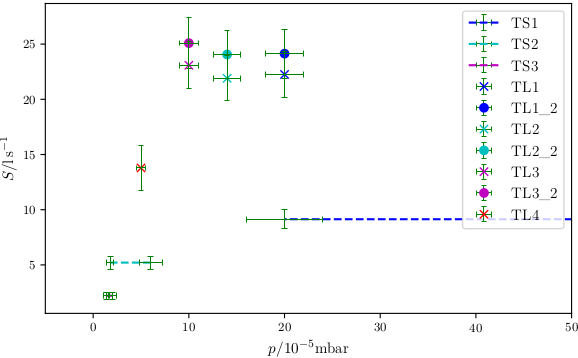
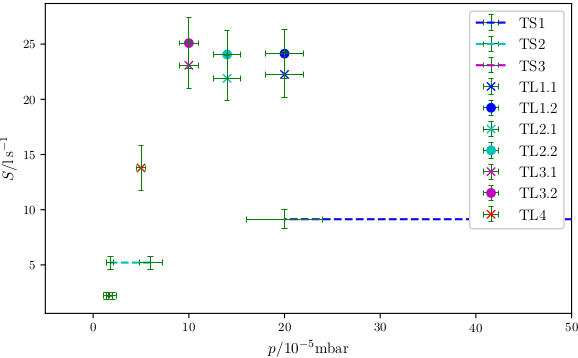
auswertung teil 1

Changed region(s): [[0.8097, 0.0307, 0.9654, 0.6145]]

diff --git a/FP-V70/scripts/mainscriptw.py b/FP-V70/scripts/mainscriptw.py
@@ -565,7 +565,7 @@ tDS=unp.uarray(tDS,tDS_f)
 
 pDS_h = (pDS-pDS_end)/(pDS[0]-pDS_end)
 pDS_log = unp.log(pDS_h)
-print('pDS_log',pDS_log)
+#print('pDS_log',pDS_log)
 
 paramsLinearDS1, errorsLinearDS1, sigma_y = linregress(noms(tDS)[0:11], noms(pDS_log)[0:11])
 steigungDS1 = unp.uarray(paramsLinearDS1[0],errorsLinearDS1[0])
@@ -615,7 +615,7 @@ print('DS done')
 
 
 #Ges
-"""
+
 #GesT
 plt.cla()
 plt.clf()
@@ -628,12 +628,12 @@ plt.errorbar([noms(pTS)[0],noms(pTS)[3]], [noms(STS1),noms(STS1)], xerr=[stds(pT
 plt.errorbar([noms(pTS)[4],noms(pTS)[7]], [noms(STS2),noms(STS2)], xerr=[stds(pTS)[4],stds(pTS)[7]], yerr=[stds(STS2),stds(STS2)], fmt='c--', markersize=6, elinewidth=0.5, capsize=2, capthick=0.5, ecolor='g',barsabove=True ,label='TS2')
 plt.errorbar([noms(pTS)[6],noms(pTS)[9]], [noms(STS3),noms(STS3)], xerr=[stds(pTS)[6],stds(pTS)[9]], yerr=[stds(STS3),stds(STS3)], fmt='m--', markersize=6, elinewidth=0.5, capsize=2, capthick=0.5, ecolor='g',barsabove=True ,label='TS3')
 
-plt.errorbar(noms(pTL1)[0]*10, noms(STL1), xerr=stds(pTL1)[0]*10, yerr=stds(STL1), fmt='bx', markersize=6, elinewidth=0.5, capsize=2, capthick=0.5, ecolor='g',barsabove=True ,label='TL1')
-plt.errorbar(noms(pTL1)[0]*10, noms(STL1_2), xerr=stds(pTL1)[0]*10, yerr=stds(STL1_2), fmt='bo', markersize=6, elinewidth=0.5, capsize=2, capthick=0.5, ecolor='g',barsabove=True ,label='TL1_2')
-plt.errorbar(noms(pTL2)[0]*10, noms(STL2), xerr=stds(pTL2)[0]*10, yerr=stds(STL2), fmt='cx', markersize=6, elinewidth=0.5, capsize=2, capthick=0.5, ecolor='g',barsabove=True ,label='TL2')
-plt.errorbar(noms(pTL2)[0]*10, noms(STL2_2), xerr=stds(pTL2)[0]*10, yerr=stds(STL2_2), fmt='co', markersize=6, elinewidth=0.5, capsize=2, capthick=0.5, ecolor='g',barsabove=True ,label='TL2_2')
-plt.errorbar(noms(pTL3)[0]*10, noms(STL3), xerr=stds(pTL3)[0]*10, yerr=stds(STL3), fmt='mx', markersize=6, elinewidth=0.5, capsize=2, capthick=0.5, ecolor='g',barsabove=True ,label='TL3')
-plt.errorbar(noms(pTL3)[0]*10, noms(STL3_2), xerr=stds(pTL3)[0]*10, yerr=stds(STL3_2), fmt='mo', markersize=6, elinewidth=0.5, capsize=2, capthick=0.5, ecolor='g',barsabove=True ,label='TL3_2')
+plt.errorbar(noms(pTL1)[0]*10, noms(STL1), xerr=stds(pTL1)[0]*10, yerr=stds(STL1), fmt='bx', markersize=6, elinewidth=0.5, capsize=2, capthick=0.5, ecolor='g',barsabove=True ,label='TL1.1')
+plt.errorbar(noms(pTL1)[0]*10, noms(STL1_2), xerr=stds(pTL1)[0]*10, yerr=stds(STL1_2), fmt='bo', markersize=6, elinewidth=0.5, capsize=2, capthick=0.5, ecolor='g',barsabove=True ,label='TL1.2')
+plt.errorbar(noms(pTL2)[0]*10, noms(STL2), xerr=stds(pTL2)[0]*10, yerr=stds(STL2), fmt='cx', markersize=6, elinewidth=0.5, capsize=2, capthick=0.5, ecolor='g',barsabove=True ,label='TL2.1')
+plt.errorbar(noms(pTL2)[0]*10, noms(STL2_2), xerr=stds(pTL2)[0]*10, yerr=stds(STL2_2), fmt='co', markersize=6, elinewidth=0.5, capsize=2, capthick=0.5, ecolor='g',barsabove=True ,label='TL2.2')
+plt.errorbar(noms(pTL3)[0]*10, noms(STL3), xerr=stds(pTL3)[0]*10, yerr=stds(STL3), fmt='mx', markersize=6, elinewidth=0.5, capsize=2, capthick=0.5, ecolor='g',barsabove=True ,label='TL3.1')
+plt.errorbar(noms(pTL3)[0]*10, noms(STL3_2), xerr=stds(pTL3)[0]*10, yerr=stds(STL3_2), fmt='mo', markersize=6, elinewidth=0.5, capsize=2, capthick=0.5, ecolor='g',barsabove=True ,label='TL3.2')
 plt.errorbar(noms(pTL4)[0]*10, noms(STL4), xerr=stds(pTL4)[0]*10, yerr=stds(STL1), fmt='rx', markersize=6, elinewidth=0.5, capsize=2, capthick=0.5, ecolor='g',barsabove=True ,label='TL4')
 #plt.errorbar(noms(pTS)[0], noms(STS1), xerr=stds(pTS)[0], yerr=stds(STS1), fmt='ro', markersize=6, elinewidth=0.5, capsize=2, capthick=0.5, ecolor='g',barsabove=True ,label='TS1')
 #plt.errorbar(noms(pTS)[3], noms(STS2), xerr=stds(pTS)[3], yerr=stds(STS2), fmt='co', markersize=6, elinewidth=0.5, capsize=2, capthick=0.5, ecolor='g',barsabove=True ,label='TS2')
@@ -642,7 +642,7 @@ plt.errorbar(noms(pTL4)[0]*10, noms(STL4), xerr=stds(pTL4)[0]*10, yerr=stds(STL1
 plt.xlabel(r'$p/10^{-5}\si{\milli\bar}$')
 plt.ylabel(r'$S/\si{\litre\per\second}$')
 plt.xlim(-5,50)
-plt.legend(loc='best')
+plt.legend(loc='best', fancybox=True, framealpha=1)
 plt.tight_layout(pad=0, h_pad=1.08, w_pad=1.08)
 plt.savefig('content/images/TGes.png')
 print('TGes done')
@@ -669,9 +669,9 @@ plt.errorbar(noms(pDL4)[0], noms(SDL4), xerr=stds(pDL4)[0], yerr=stds(SDL4), fmt
 plt.xlabel(r'$p/\si{\milli\bar}$')
 plt.ylabel(r'$S/\si{\litre\per\second}$')
 plt.xlim(-0.5,3)
-plt.legend(loc='best')
+plt.legend(loc='best', fancybox=True, framealpha=1)
 plt.tight_layout(pad=0, h_pad=1.08, w_pad=1.08)
 plt.savefig('content/images/DGes.png')
 print('DGes done')
-"""
+
 print('Ges done')

diff --git a/FP-V70/content/auswertung.tex b/FP-V70/content/auswertung.tex
@@ -86,7 +86,6 @@ Die Graphen werden sowohl mit Matplotlib \cite{matplotlib} als auch NumPy \cite{
 \label{fig:TSL}
 \end{figure}
 
-
 \subsection{Drehschieberpumpe}
 
 \subsubsection{Bestimmung des Saugvermögens $S$ über die Leckratenmessung}
@@ -170,3 +169,18 @@ Die Graphen werden sowohl mit Matplotlib \cite{matplotlib} als auch NumPy \cite{
 \label{fig:DSL}
 \end{figure}
 
+\subsection{Zusammenfassung}
+
+\begin{figure}
+\centering
+\includegraphics[width=\linewidth-70pt,height=\textheight-70pt,keepaspectratio]{content/images/TGes.png}
+\caption{Das Saugvermögen $S$ der Turbomoolekularpumpe in Abhängigkeit vom Druck $p$.}
+\label{fig:TGes}
+\end{figure}
+
+\begin{figure}
+\centering
+\includegraphics[width=\linewidth-70pt,height=\textheight-70pt,keepaspectratio]{content/images/DGes.png}
+\caption{Das Saugvermögen $S$ der Drehschieberpumpe in Abhängigkeit vom Druck $p$.}
+\label{fig:DGes}
+\end{figure}
